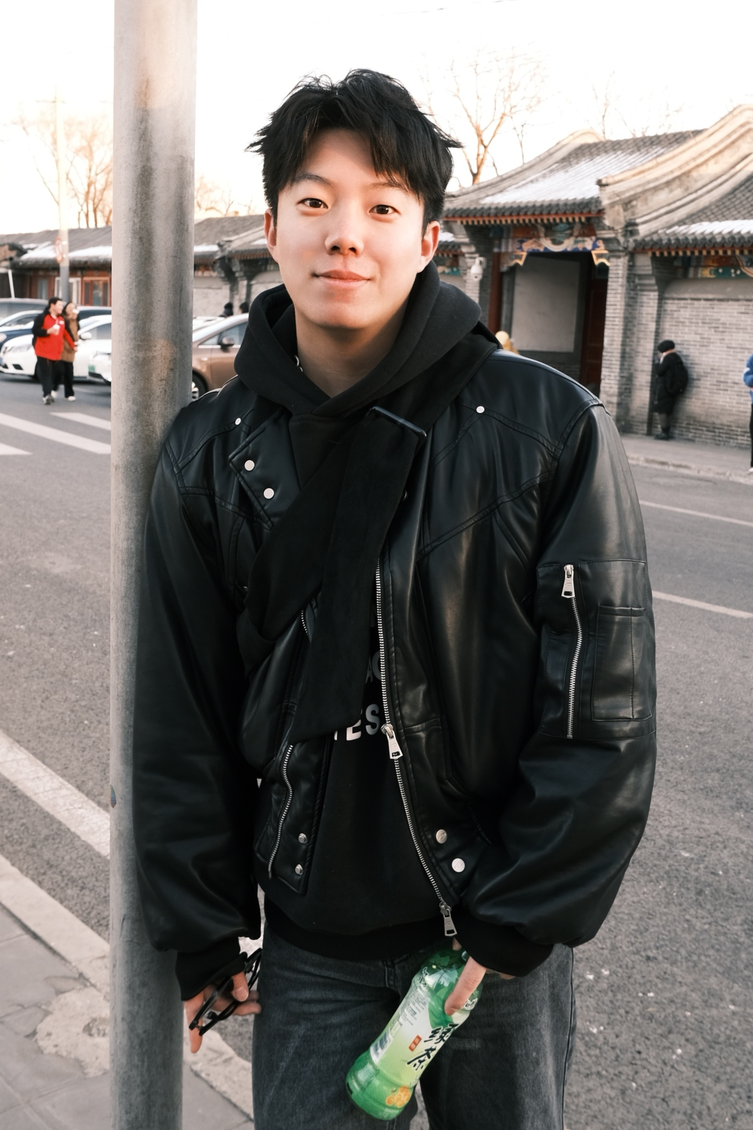
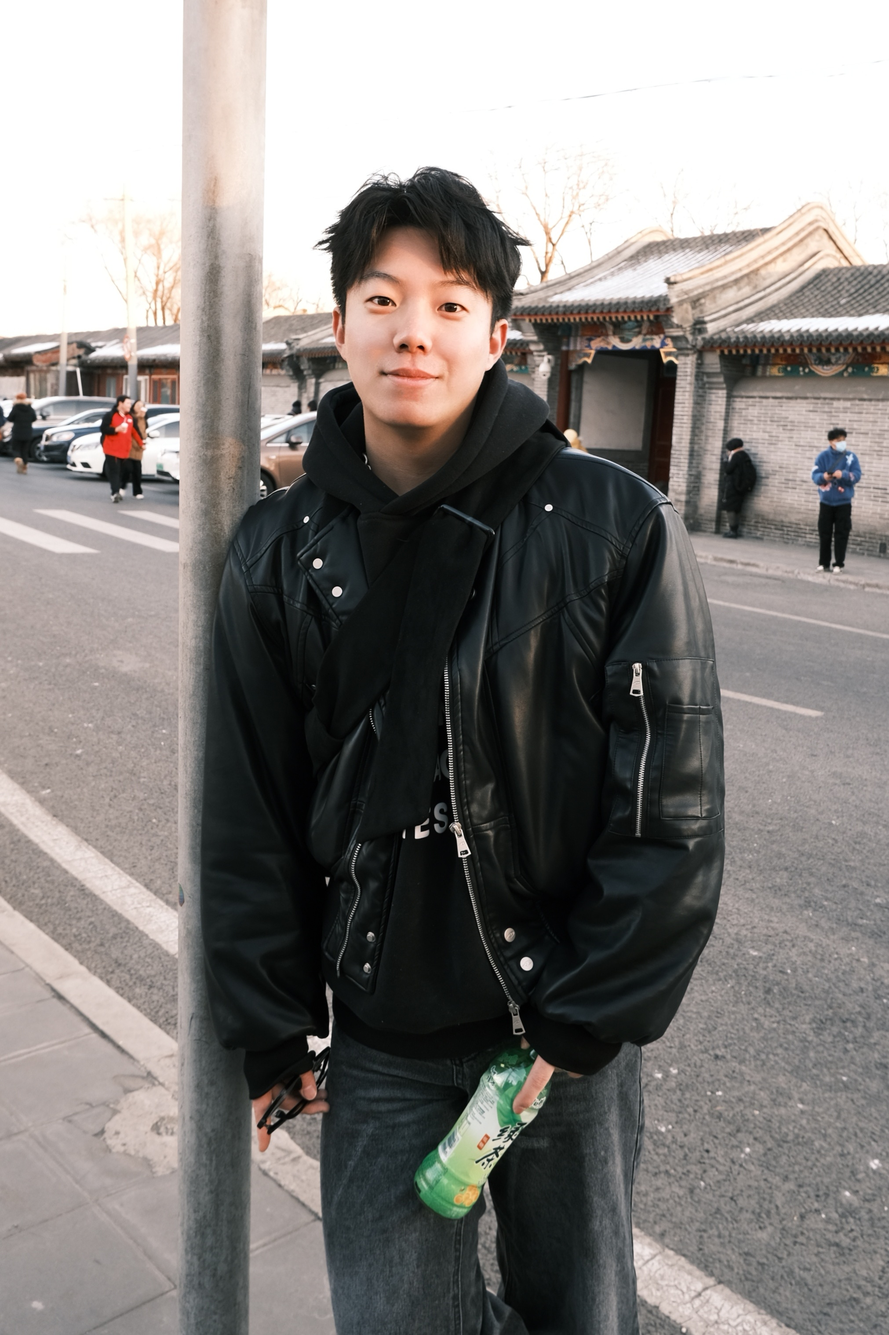
Use supplied half-body portrait

diff --git a/index.html b/index.html
@@ -6,7 +6,7 @@
   <meta name="description" content="许颂毓，北邮 PRIS-CV 实验室硕士研究生，主要研究方向为多模态模型评测与人类偏好对齐，重点关注视觉理解与生成">
   <meta name="author" content="Songyu Xu | 许颂毓">
   <meta name="color-scheme" content="light">
-  <meta property="og:image" content="https://notyourkev.github.io/assets/portrait-half-body.jpg">
+  <meta property="og:image" content="https://notyourkev.github.io/assets/portrait-half-body.jpg?v=2">
   <title>许颂毓 | Songyu Xu</title>
   <link rel="canonical" href="https://notyourkev.github.io/">
   <link rel="icon" href="assets/bupt-logo.png" type="image/png">
@@ -53,7 +53,7 @@
         </div>
         <p class="scholar-summary" hidden><a class="scholar-total" href="https://scholar.google.com/citations?user=dPrvOpQAAAAJ&amp;hl=zh-CN" target="_blank" rel="noreferrer"></a><span class="scholar-updated"></span></p>
       </div>
-      <figure class="profile-portrait"><img class="portrait" src="assets/portrait-half-body.jpg" alt="许颂毓的个人照片" width="1713" height="2571" fetchpriority="high"></figure>
+      <figure class="profile-portrait"><img class="portrait" src="assets/portrait-half-body.jpg?v=2" alt="许颂毓的个人照片" width="2022" height="3035" fetchpriority="high"></figure>
     </section>
 
     <section id="publications" class="content-section" aria-labelledby="publications-title">

diff --git a/README.md b/README.md
@@ -12,7 +12,7 @@ GitHub Pages 使用 `notyourkev.github.io` 仓库的 `main` 分支根目录。
 
 ## 页面维护
 
-简介、论文、教育和实习在 `index.html` 中维护；`data-zh` / `data-en` 分别对应中英文文本。`styles.css` 负责响应式排版，教育与实习共用 `.experience` 样式。个人照片使用 `assets/portrait-half-body.jpg`，完整拷贝自用户裁好的 `个人照/eda46bad848223993a0fea17a812a97a.jpg`，按原始宽高比显示。
+简介、论文、教育和实习在 `index.html` 中维护；`data-zh` / `data-en` 分别对应中英文文本。`styles.css` 负责响应式排版，教育与实习共用 `.experience` 样式。个人照片使用 `assets/portrait-half-body.jpg`，完整拷贝自用户指定的 `个人照/dbd15f994abc9e6d6e24cb4d1ad7d559.jpg`，按原始宽高比显示。
 
 ## Google Scholar 引用数
 
